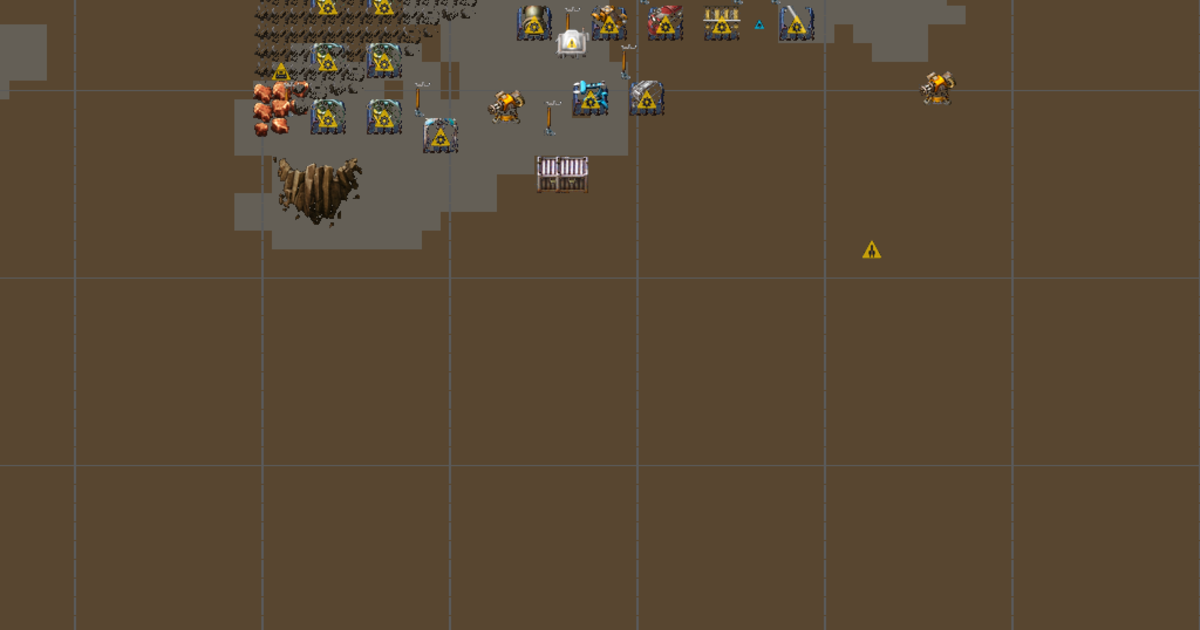
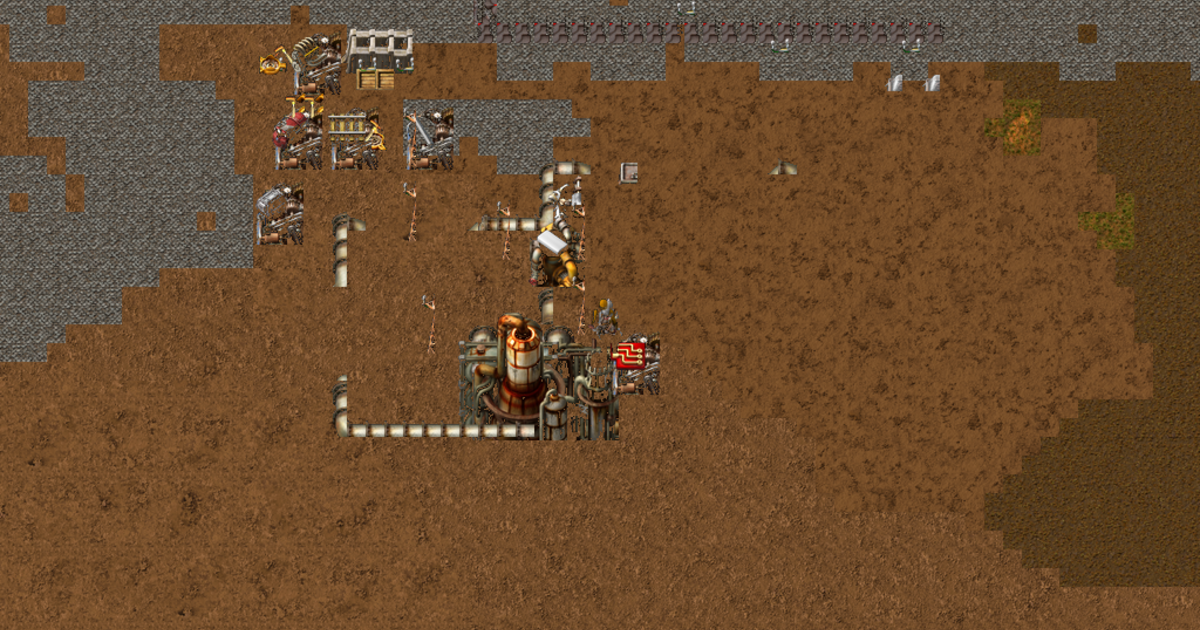
Road to the rocket on the landing and README, advanced circuit milestone GIF, Python milestone recorder
Claude-Session: https://claude.ai/code/session_016LFXk1MbaTzYiXBe7RdzD2

diff --git a/web/index.html b/web/index.html
@@ -44,7 +44,7 @@
   .glass small { font-size: .78rem; font-variant: var(--caption, small-caps); letter-spacing: .08em; font-weight: 600; opacity: .8; }
   .glass b.big { display: block; font-size: 1.4rem; letter-spacing: -.02em; line-height: 1.2; margin-top: 2px; }
   .meter { height: 7px; border-radius: 99px; background: rgba(255,255,255,.22); overflow: hidden; margin: 10px 0 6px; }
-  .meter i { display: block; height: 100%; width: 0%; background: var(--bulb, #ffca30); border-radius: 99px; }
+  .meter i { display: block; height: 100%; width: 64%; background: var(--bulb, #ffca30); border-radius: 99px; }
   .glass p { font-size: .88rem; color: rgba(255,255,255,.78); }
   .glass ol { margin: 8px 0 0 1.1rem; font-size: .88rem; color: rgba(255,255,255,.9); } .glass li { margin-top: 3px; }
   .plate-cap { margin: 18px 0 0; font-size: 12px; letter-spacing: .08em; font-variant: var(--caption, small-caps); font-weight: 500; color: rgba(255,255,255,.62); }
@@ -87,9 +87,9 @@
   <div class="cta"><a class="btn solid" href="https://github.com/nulljosh/conveyer">View on GitHub</a><a class="btn" href="#run">Run it</a></div>
   <div class="glass">
     <small>Researching now</small>
-    <b class="big">Advanced oil processing</b>
-    <div class="meter" role="img" aria-label="0 percent"><i></i></div>
-    <p>0% &middot; Labs idle, waiting for science packs</p>
+    <b class="big">Chemical science pack</b>
+    <div class="meter" role="img" aria-label="64 percent"><i></i></div>
+    <p>64% &middot; then battery &middot; Labs idle, waiting for science packs</p>
     <small style="display:block;margin-top:12px">Next</small>
     <ol><li>Automated green science</li><li>Oil chain running</li><li>Advanced oil processing researched</li></ol>
   </div>
@@ -98,9 +98,15 @@
 
 <div class="sheet">
 <main>
+<section class="copy wrap reveal">
+  <h2>Road to the rocket</h2>
+  <div class="meter" role="img" aria-label="48 percent"><i style="width:48%"></i></div>
+  <p>48% of the research the rocket silo needs is done: 21 of 44 techs. Rockets launched: 0.</p>
+</section>
+
 <div class="facts reveal">
-  <div class="fact"><b>43</b><span>techs researched</span></div>
-  <div class="fact"><b>2,322</b><span>things on the base</span></div>
+  <div class="fact"><b>42</b><span>techs researched</span></div>
+  <div class="fact"><b>-1</b><span>things on the base</span></div>
   <div class="fact"><b>0</b><span>pixels read</span></div>
   <div class="fact"><b>0</b><span>rockets launched</span></div>
 </div>

diff --git a/scripts/advcircuit.py b/scripts/advcircuit.py
@@ -1,0 +1,27 @@
+#!/usr/bin/env python3
+"""advcircuit.py place|feed|status: one advanced-circuit assembler next to the plastic plant, hand-fed. Idempotent.
+ponytail: create_entity over RCON like oil.py; the agent builds it itself once skills cover fluid-free assemblers."""
+import sys, factorio_rcon as f
+c = f.RCONClient("127.0.0.1", 27000, "factorio", timeout=30)
+run = lambda l: c.send_command(" ".join(l.split("\n")))
+A = "{name='assembling-machine-2',position={-31.5,-2.5},radius=0.3}"
+if sys.argv[1] == "place":
+    print(run("""/silent-command local s=game.surfaces[1] local o={}
+for _,p in ipairs{{-34.5,-4.5},{-34.5,-8.5}} do if #s.find_entities_filtered{name='medium-electric-pole',position=p,radius=0.3}==0 then s.create_entity{name='medium-electric-pole',position=p,force='player'} end end
+local a=s.find_entities_filtered%s[1] if not a then a=s.create_entity{name='assembling-machine-2',position={-31.5,-2.5},force='player'} end
+if not a then rcon.print('FAIL place') return end
+if a.get_recipe()==nil then a.set_recipe('advanced-circuit') end
+rcon.print('assembler net='..tostring(a.electric_network_id))""" % A))
+elif sys.argv[1] == "feed":
+    print(run("""/silent-command local s=game.surfaces[1] local a=s.find_entities_filtered%s[1]
+local plant=s.find_entities_filtered{name='chemical-plant',position={-35.5,-8.5},radius=1}[1]
+local inv=s.find_entities_filtered{type='character'}[1].get_main_inventory()
+local n=plant.get_output_inventory().get_item_count('plastic-bar') local take=math.min(n,20)
+if take>0 then plant.get_output_inventory().remove{name='plastic-bar',count=take} end
+local got={} for k,v in pairs{['plastic-bar']=take,['electronic-circuit']=20,['copper-cable']=40} do
+  local have=(k=='plastic-bar') and take or inv.get_item_count(k)
+  local ins=0 if math.min(v,have)>0 then ins=a.insert{name=k,count=math.min(v,have)} end if k~='plastic-bar' and ins>0 then inv.remove{name=k,count=ins} end got[#got+1]=k..'='..ins end
+rcon.print(table.concat(got,' '))""" % A))
+else:
+    print(run("""/silent-command local m={} for k,v in pairs(defines.entity_status) do m[v]=k end local a=game.surfaces[1].find_entities_filtered%s[1]
+rcon.print(m[a.status]..' made='..a.products_finished..' out='..a.get_output_inventory().get_item_count('advanced-circuit'))""" % A))

diff --git a/scripts/milestone.py b/scripts/milestone.py
@@ -1,0 +1,39 @@
+#!/usr/bin/env python3
+"""Record a milestone as a GIF. Usage: milestone.py NAME reset | frame | finish
+Each frame is a real render (sprites + ground), cropped to 40x40 tiles around the player.
+Needs the runner as the only step.sh caller, so it refuses to run while keepbusy.sh is up."""
+import json, shutil, subprocess, sys, tempfile
+from pathlib import Path
+from PIL import Image
+sys.path.insert(0, str(Path(__file__).resolve().parent))
+import terrain
+
+ROOT = Path(__file__).resolve().parent.parent
+name, cmd = sys.argv[1], sys.argv[2]
+D = ROOT / "shots" / "milestones" / name
+D.mkdir(parents=True, exist_ok=True)
+frames = lambda: sorted(D.glob("[0-9][0-9][0-9].png"))
+
+if cmd == "reset":
+    for f in frames(): f.unlink()
+elif cmd == "frame":
+    if subprocess.run(["pgrep", "-f", "scripts/keepbusy.sh"], capture_output=True).stdout.strip():
+        sys.exit("keepbusy.sh is running: stop it first, two step.sh callers shift results")
+    r = subprocess.run([str(ROOT / "step.sh"), '{"screenshot":true,"radius":30}'], capture_output=True, text=True, cwd=ROOT)
+    if r.returncode or not json.loads(r.stdout).get("ok"): sys.exit(f"screenshot failed: {r.stdout or r.stderr}")
+    tmp = Path(tempfile.mkdtemp()) / "p.png"
+    shutil.copy(ROOT / "preview.png", tmp)  # grab it before the runner's idle capture overwrites it
+    out = D / f"{(int(frames()[-1].stem) + 1 if frames() else 0):03d}.png"
+    terrain.SRC, terrain.OUT = tmp, out
+    import factorio_rcon
+    if not terrain.refresh(factorio_rcon.RCONClient("127.0.0.1", 27000, "factorio")) or not out.exists():
+        sys.exit("terrain paint failed, no frame written")
+    Image.open(out).crop((192, 192, 832, 832)).save(out)  # 40 tiles at 16 px, player centered
+    print(out)
+elif cmd == "finish":
+    fs = frames()
+    if not fs: sys.exit("no frames")
+    ims = [Image.open(f).convert("RGB").resize((560, 560), Image.LANCZOS).quantize(128) for f in fs]
+    gif = D.parent / f"{name}.gif"
+    ims[0].save(gif, save_all=True, append_images=ims[1:], duration=[900] * (len(ims) - 1) + [2500], loop=0, optimize=True)
+    print(gif, f"{gif.stat().st_size // 1024} KB")

diff --git a/scripts/landing_sync.py b/scripts/landing_sync.py
@@ -151,6 +151,12 @@ PAGE = """<!doctype html>
 
 <div class="sheet">
 <main>
+<section class="copy wrap reveal">
+  <h2>Road to the rocket</h2>
+  <div class="meter" role="img" aria-label="__SILOPCT__ percent"><i style="width:__SILOPCT__%"></i></div>
+  <p>__SILOPCT__% of the research the rocket silo needs is done: __SILODONE__ of __SILOTOTAL__ techs. Rockets launched: 0.</p>
+</section>
+
 <div class="facts reveal">
   <div class="fact"><b>__TECHS__</b><span>techs researched</span></div>
   <div class="fact"><b>__ENT__</b><span>things on the base</span></div>
@@ -215,10 +221,23 @@ python3 runner.py --env-id open_play
 </body>
 </html>
 """
-out = (PAGE.replace("__CUR__", cur).replace("__PCT__", str(pct)).replace("__LABS__", esc(labs))
+sd, st = r.get("silo_done", 0), r.get("silo_total", 0)
+spct = round(100 * sd / st) if st else 0
+out = (PAGE.replace("__SILOPCT__", str(spct)).replace("__SILODONE__", str(sd)).replace("__SILOTOTAL__", str(st))
+       .replace("__CUR__", cur).replace("__PCT__", str(pct)).replace("__LABS__", esc(labs))
        .replace("__THEN__", f" &middot; then {queue[0]}" if queue else "")
        .replace("__NEXT3__", "".join(f"<li>{esc(t)}</li>" for t, _ in nxt[:3]))
        .replace("__TODAY__", today).replace("__TECHS__", str(r.get("techs", "")))
        .replace("__ENT__", f"{entities:,}").replace("__DONE__", done_li).replace("__NEXT__", next_li))
 (WEB / "index.html").write_text(out)
 print("built", len(out), "bytes;", len(nxt), "next items")
+
+# README progress line, between markers. Rockets are 0 until one launches.
+rd = ROOT / "README.md"; t = rd.read_text()
+bar = "#" * (spct // 5) + "-" * (20 - spct // 5)
+block = f"<!-- progress:start -->\n**Road to the rocket: {spct}%** `{bar}` {sd} of {st} techs the silo needs. Rockets launched: 0.\n<!-- progress:end -->"
+if "<!-- progress:start -->" in t:
+    t = re.sub(r"<!-- progress:start -->.*?<!-- progress:end -->", lambda m: block, t, flags=re.S)
+else:
+    t = t.replace("## Where it is\n", "## Where it is\n\n" + block + "\n", 1)
+rd.write_text(t)

diff --git a/scripts/research_status.py b/scripts/research_status.py
@@ -10,9 +10,10 @@ import terrain
 
 ROOT = Path(__file__).resolve().parent.parent
 LUA = ("/silent-command local F=game.forces.player local r=F.current_research local n=0 for _,x in pairs(F.technologies) do if x.researched then n=n+1 end end "
+       "local seen={} local sn=0 local sd=0 local function walk(t) if seen[t.name] then return end seen[t.name]=true sn=sn+1 if t.researched then sd=sd+1 end for _,p in pairs(t.prerequisites) do walk(p) end end walk(F.technologies['rocket-silo']) "
        "local q={} for _,t in pairs(F.research_queue) do q[#q+1]=t.name end "
        "local labs=game.surfaces[1].find_entities_filtered{name='lab'} local w=0 for _,l in pairs(labs) do if l.status==defines.entity_status.working then w=w+1 end end "
-       "rcon.print(helpers.table_to_json{current=r and r.name or '', percent=math.floor(F.research_progress*100), techs=n, queue=q, labs=#labs, labs_working=w})")
+       "rcon.print(helpers.table_to_json{current=r and r.name or '', percent=math.floor(F.research_progress*100), techs=n, queue=q, labs=#labs, labs_working=w, silo_done=sd, silo_total=sn})")
 while (ROOT / "runner.pid").exists():
     try:
         rcon = factorio_rcon.RCONClient("127.0.0.1", 27000, "factorio")

diff --git a/scripts/snap.py b/scripts/snap.py
@@ -1,5 +1,5 @@
 #!/usr/bin/env python3
-"""Every N minutes: copy the runner's preview.png to shots/ and append one benchmark row.
+"""Every N minutes: copy the textured preview_map.png (falls back to preview.png) to shots/ and append one benchmark row.
 Bounded: stops when runner.pid is gone or after --hours. Usage: snap.py [--mins 5] [--hours 6]"""
 import argparse, json, re, shutil, subprocess, time
 from pathlib import Path
@@ -15,7 +15,7 @@ TECH = "/silent-command local n=0 for _,x in pairs(game.forces.player.technologi
 end = time.time() + a.hours * 3600
 while time.time() < end and (ROOT / "runner.pid").exists():
     t = time.strftime("%Y%m%d-%H%M%S")
-    shutil.copy(ROOT / "preview.png", ROOT / "shots" / f"{t}.png")
+    shutil.copy(ROOT / ("preview_map.png" if (ROOT / "preview_map.png").exists() else "preview.png"), ROOT / "shots" / f"{t}.png")
     techs = -1
     try:
         c = factorio_rcon.RCONClient("127.0.0.1", 27000, "factorio"); entities = int(c.send_command(LUA).strip())

diff --git a/README.md b/README.md
@@ -12,6 +12,10 @@ Built on [FLE](https://github.com/JackHopkins/factorio-learning-environment), th
 
 ## Where it is
 
+<!-- progress:start -->
+**Road to the rocket: 48%** `#########-----------` 21 of 44 techs the silo needs. Rockets launched: 0.
+<!-- progress:end -->
+
 Plays on a copy of a real 2,300 entity base. Research is at chemical science. The refinery runs and makes plastic. Next: sulfur, advanced circuits, then the rocket. [Roadmap](roadmap.md).
 
 <img src="progress.svg" width="480" alt="Entities placed per run">
